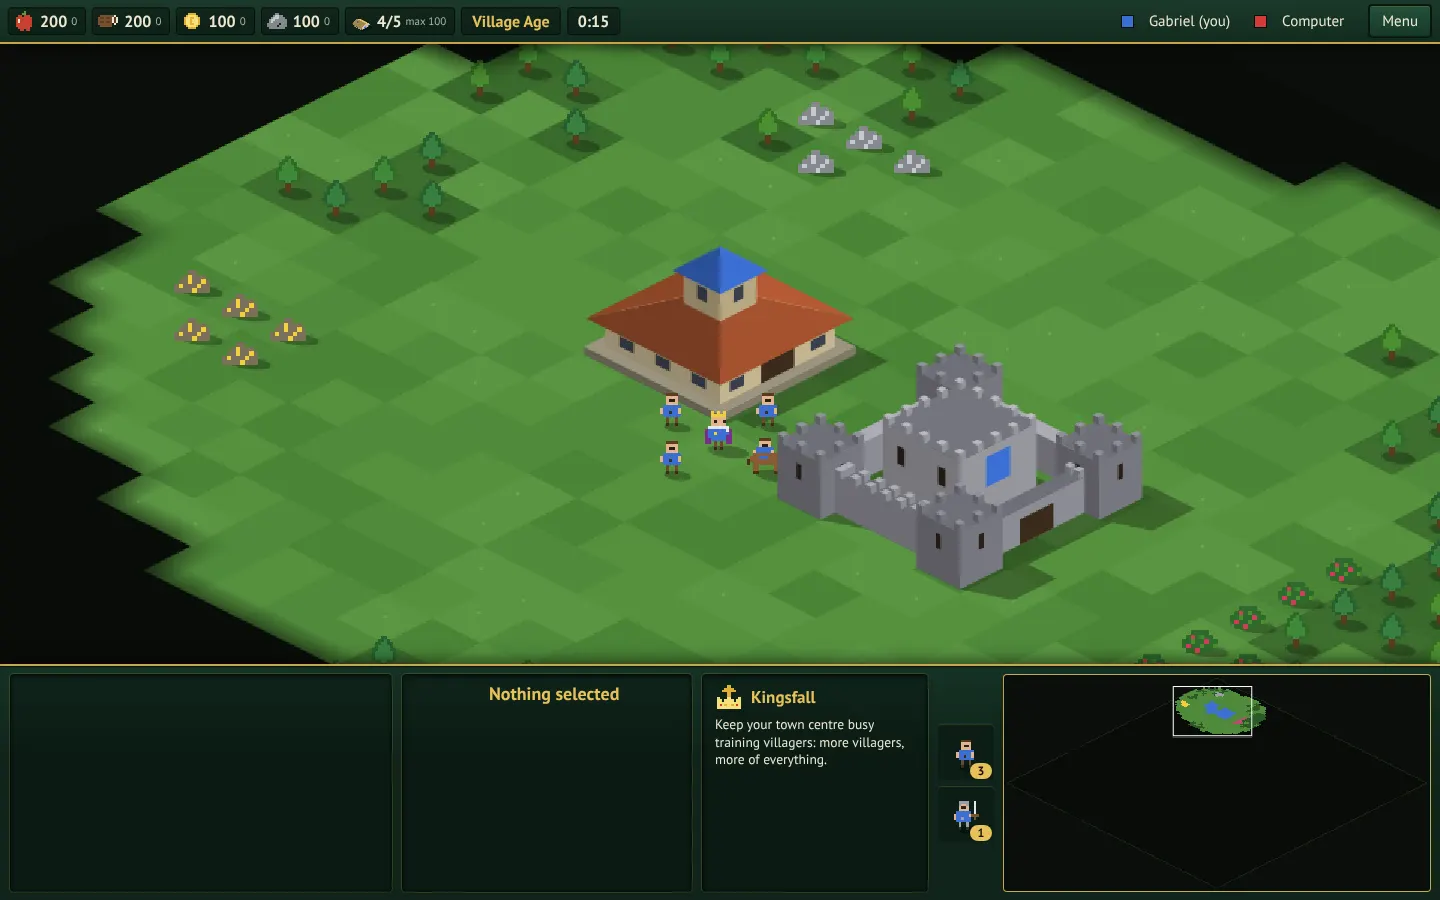
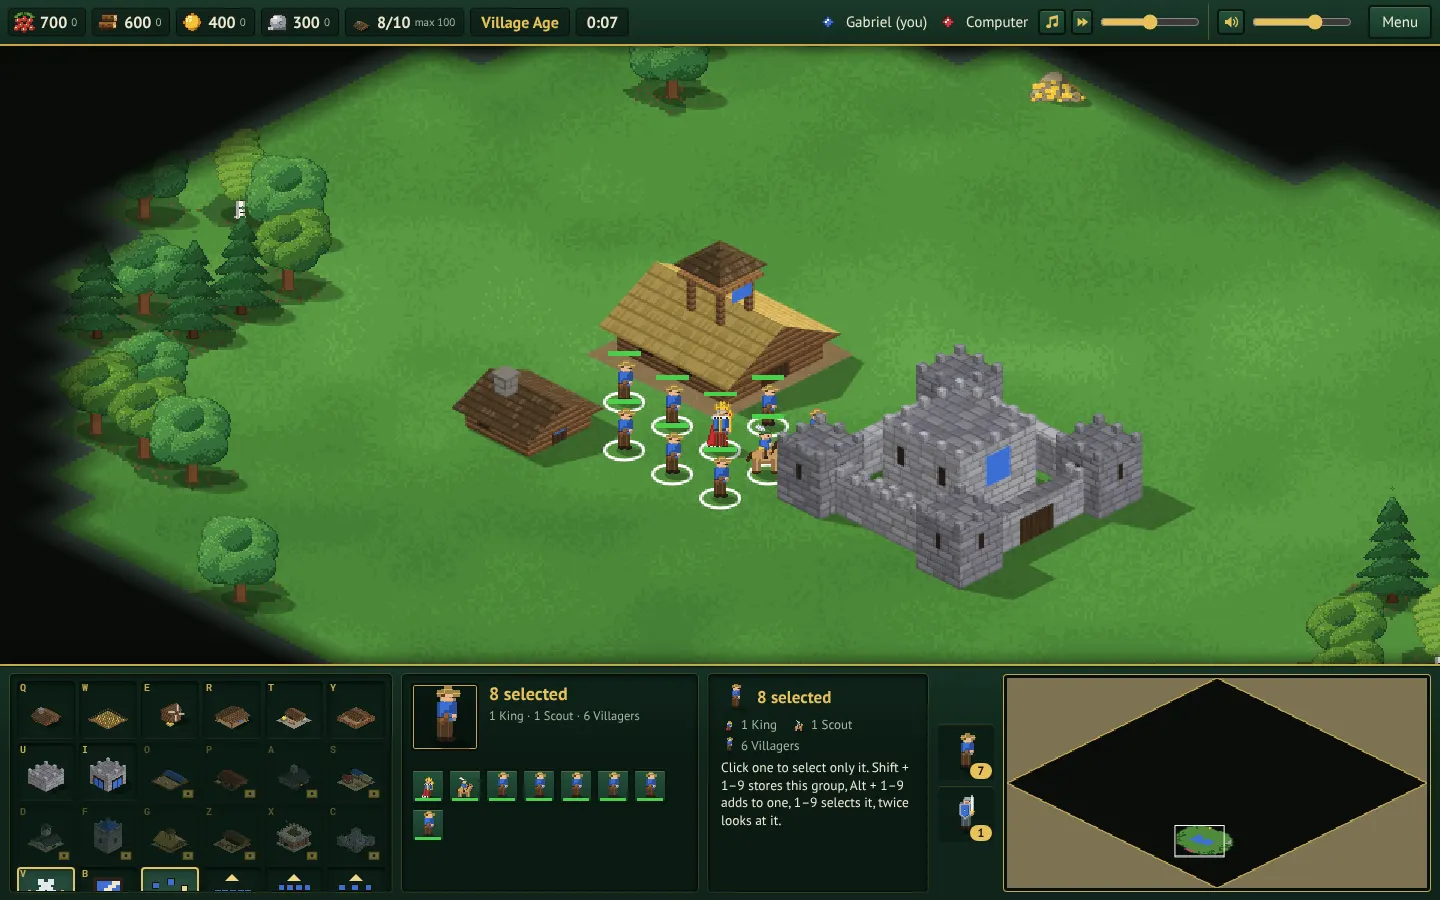
Kingsfall: new screenshot of the current build
Taken from a quick-start match against the computer: villagers, king and
scout selected around the wooden town centre and castle, with the forest
and the build panel. The row's crop is re-centred on the town.

Claude-Session: https://claude.ai/code/session_01FqocVGTXWJxat8kcUEaMd8

diff --git a/index.html b/index.html
@@ -449,7 +449,7 @@
       <span class="ix-type">Browser game</span>
       <span class="ix-model" data-model="crown" aria-hidden="true"></span>
       <span class="ix-arrow" aria-hidden="true">→</span>
-      <span class="ix-bg" aria-hidden="true"><img src="img/projects/kingsfall.webp" alt="" loading="lazy" style="object-position: 30% 30%"></span>
+      <span class="ix-bg" aria-hidden="true"><img src="img/projects/kingsfall.webp" alt="" loading="lazy" style="object-position: 40% 32%"></span>
     </a>
   </section>
   <section id="elsewhere"><div class="sec-head"><span>Elsewhere</span></div>
